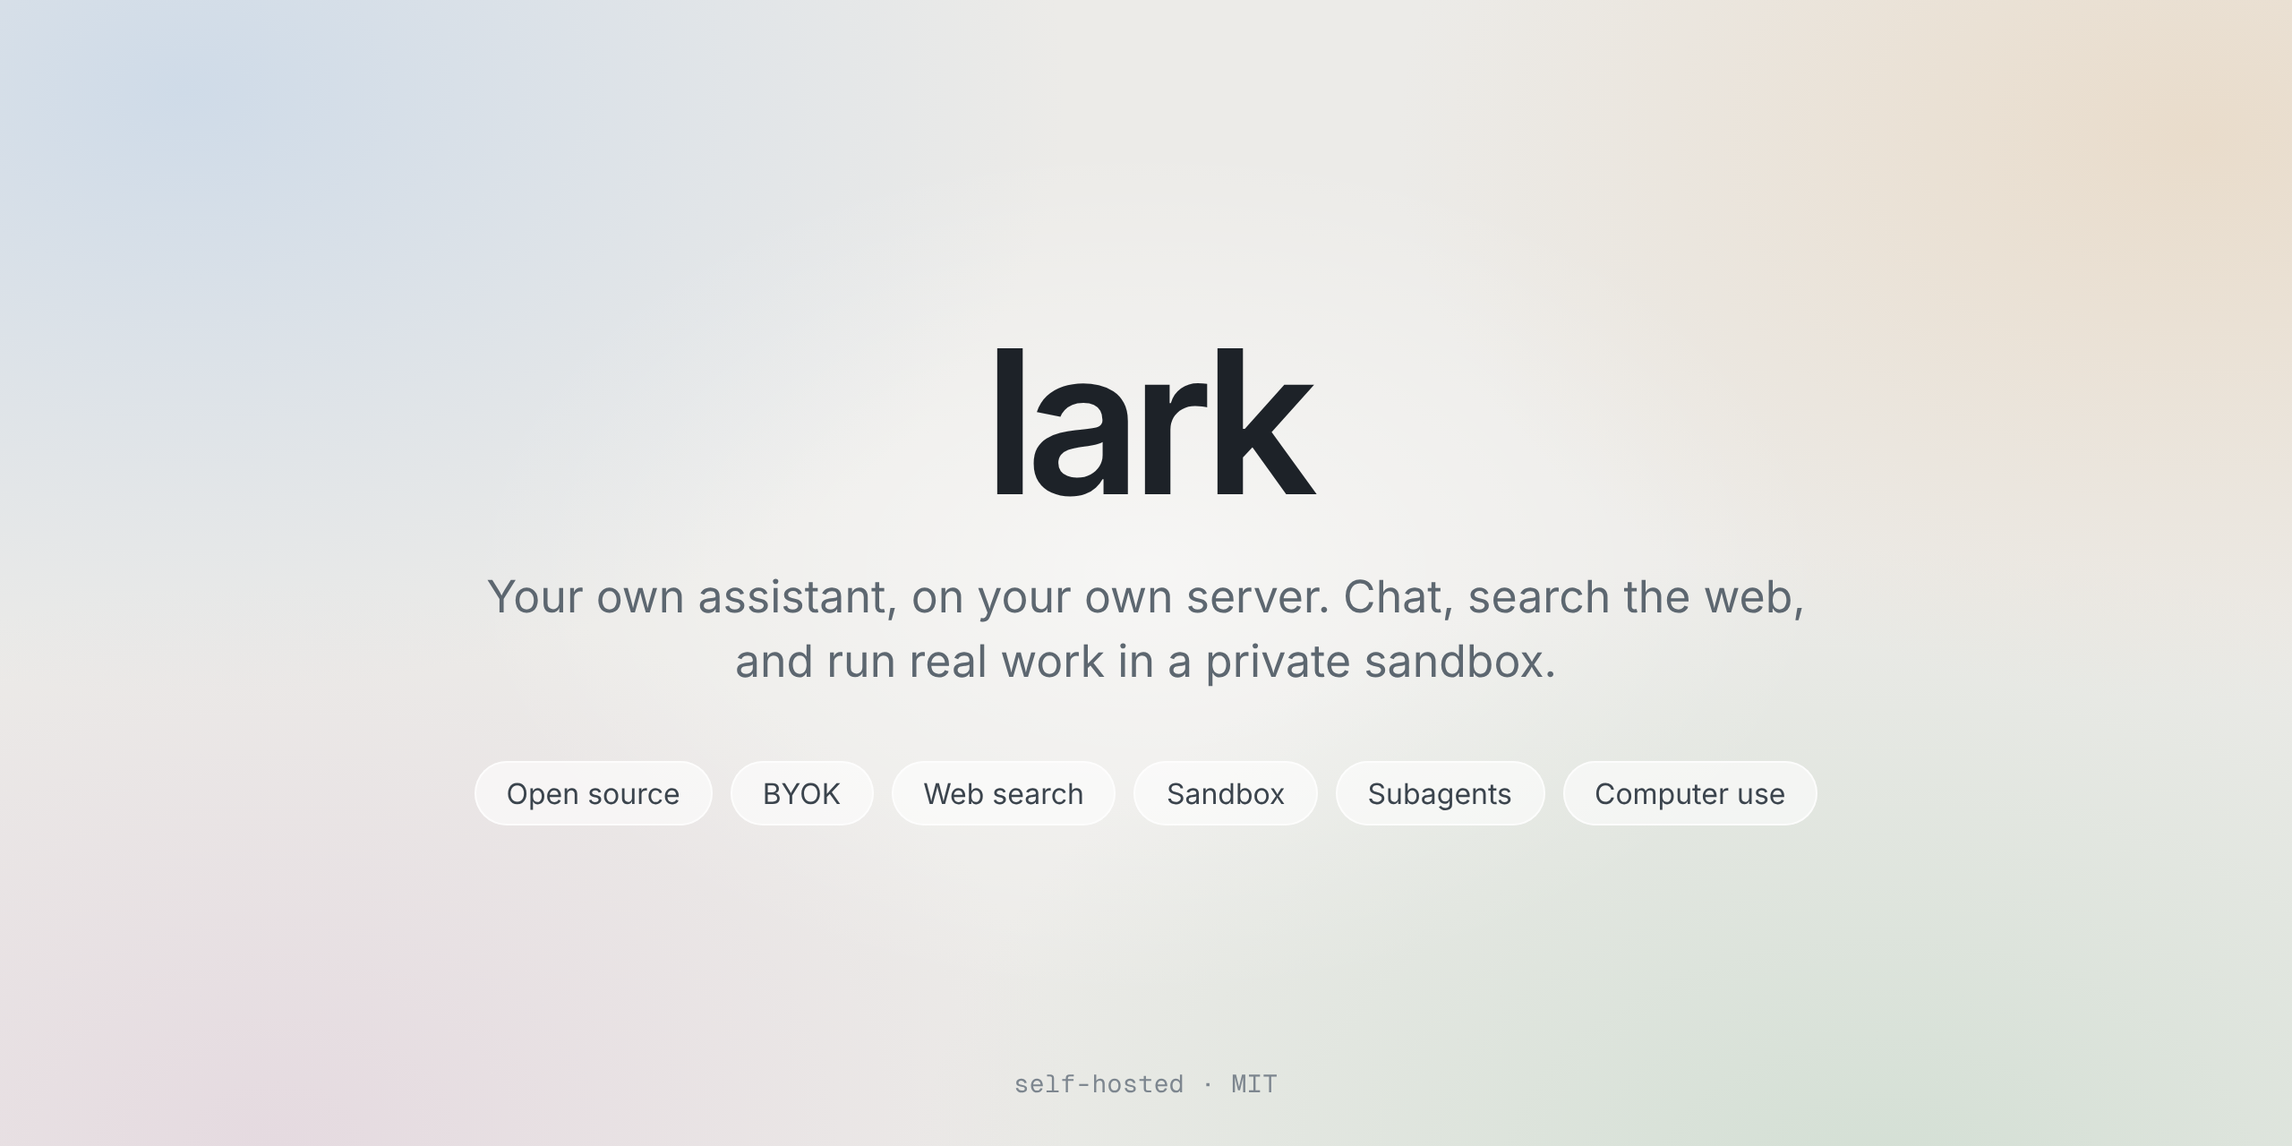
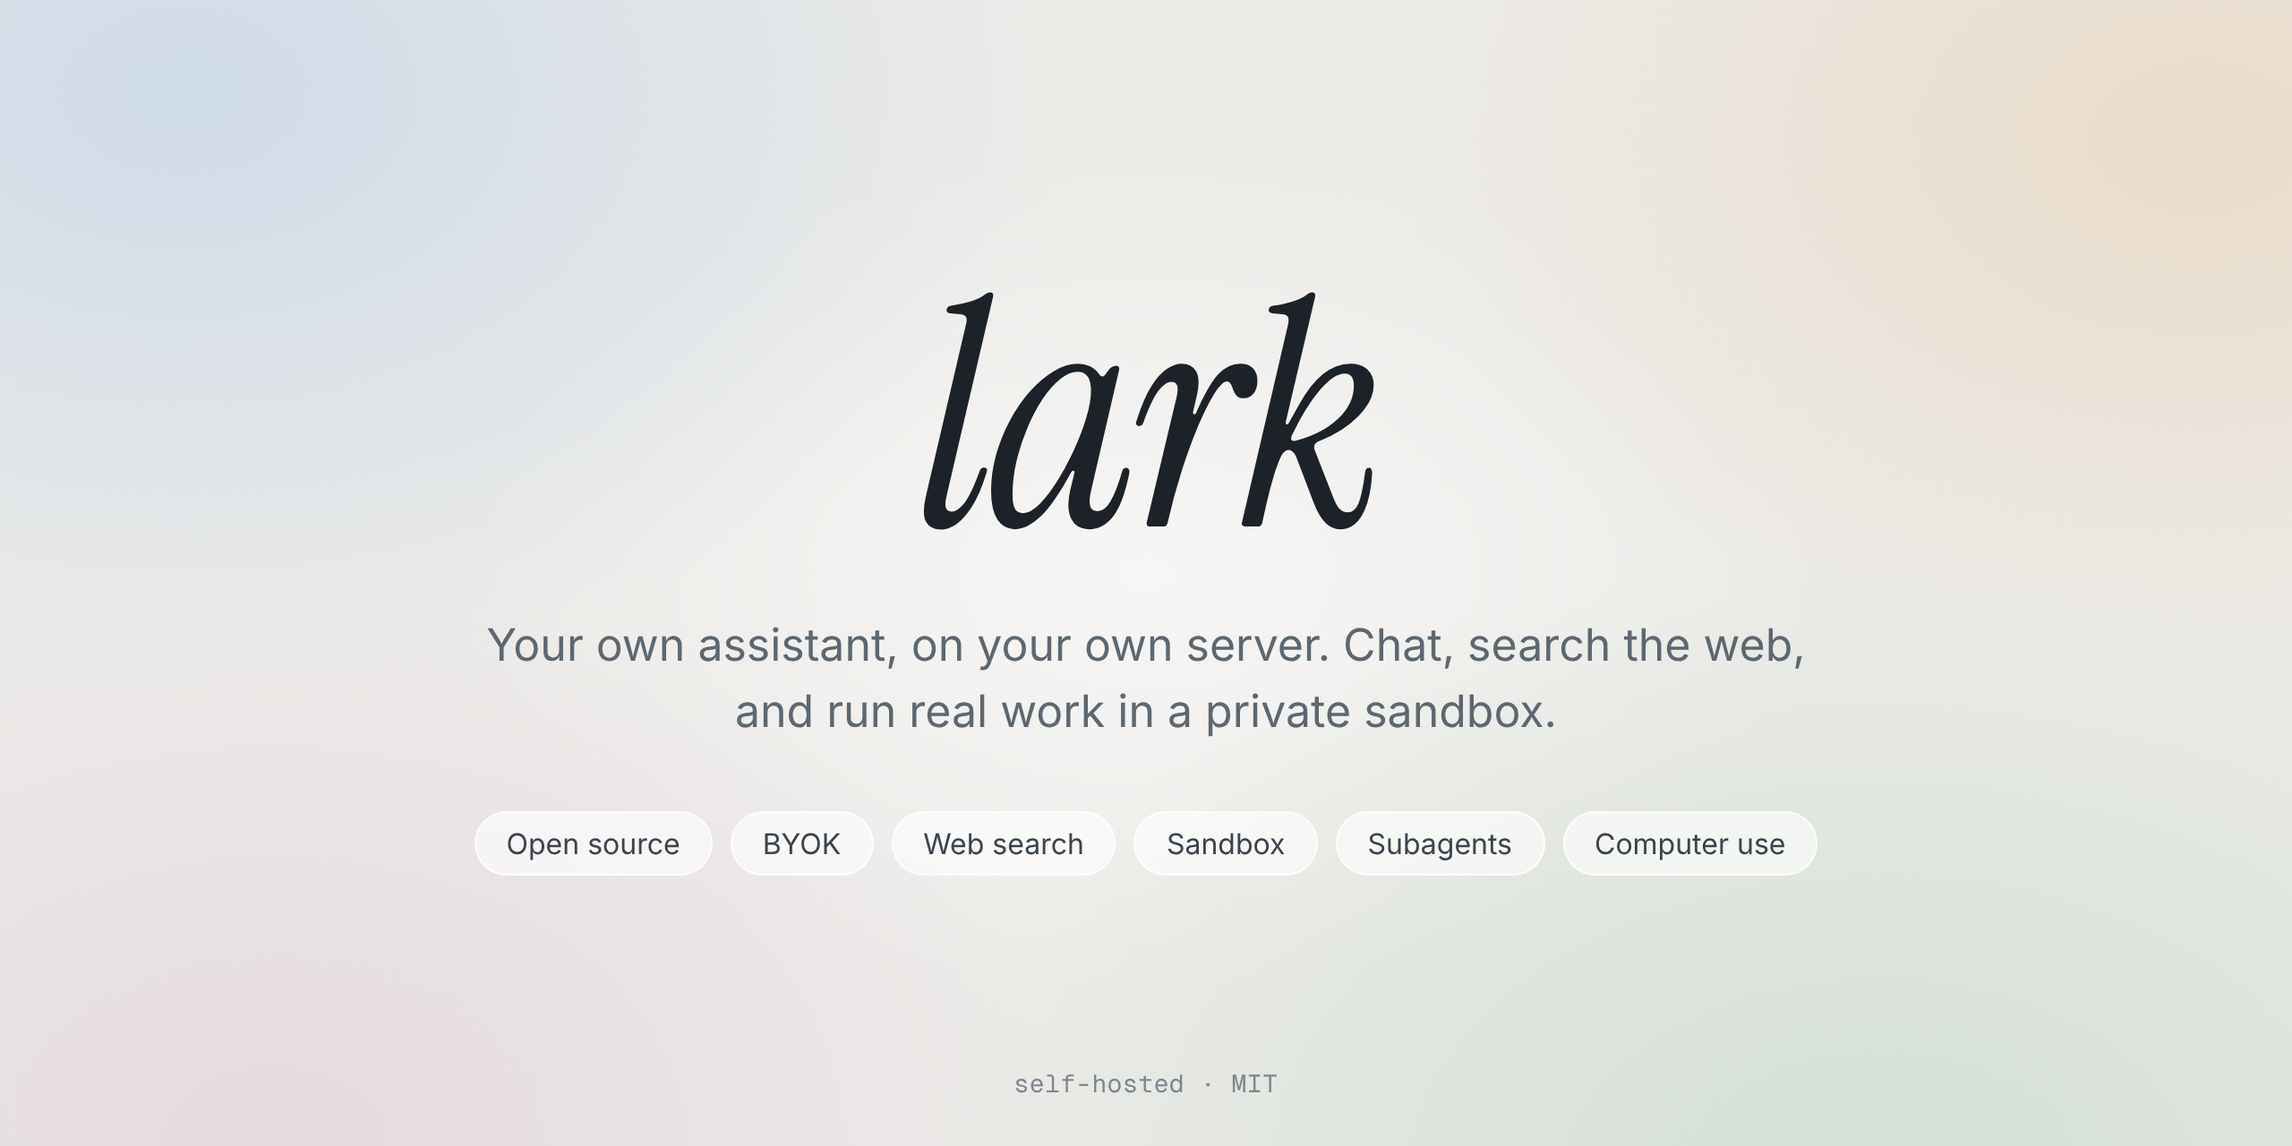
Add a browser tool (headless Chromium in the sandbox) and an italic serif hero
Claude-Session: https://claude.ai/code/session_01Cpw6LZgVNind5oHrps1TW1

diff --git a/web/src/lib/toolIcons.js b/web/src/lib/toolIcons.js
@@ -4,6 +4,7 @@ const ICONS = {
   run_command: '<rect x="3.5" y="5" width="17" height="14" rx="3"/><path d="m8 10 3 2-3 2M13 14.5h3.5"/>',
   read_file: '<path d="M7 3.5h6.5L18 8v12.5H7z"/><path d="M13 3.5V8h5M9.5 12.5h5M9.5 16h5"/>',
   write_file: '<path d="M7 3.5h6.5L18 8v4M7 3.5v17h5"/><path d="M13 3.5V8h5M13.5 20.5l.7-3 5.3-5.3 2.3 2.3-5.3 5.3z"/>',
+  browser: '<circle cx="12" cy="12" r="8.5"/><path d="M3.5 12h17M12 3.5c2.4 2.4 3.6 5.2 3.6 8.500S14.400 18.100 12 20.500M12 3.500C9.600 5.900 8.400 8.700 8.400 12s1.200 6.100 3.600 8.500"/>',
   subagent: '<circle cx="12" cy="6" r="2.5"/><circle cx="6" cy="18" r="2.5"/><circle cx="18" cy="18" r="2.5"/><path d="M12 8.5v3.5M12 12 7 15.8M12 12l5 3.8"/>',
 };
 const FALLBACK = '<path d="M14.5 6.5a4 4 0 0 0 4.9 4.9L10 20.8a2.1 2.1 0 0 1-3-3z"/><path d="M14.5 6.5l3-3"/>';

diff --git a/sandbox/agent.py b/sandbox/agent.py
@@ -1,7 +1,7 @@
 """Exec agent that runs inside the sandbox container. Standard library only.
 
 Endpoints (all need `Authorization: Bearer $SANDBOX_TOKEN`):
-  GET  /health   POST /exec {command, timeout}   GET /file?path=   PUT /file {path, content}   POST /wipe
+  POST /browser {action, ...}   GET  /health   POST /exec {command, timeout}   GET /file?path=   PUT /file {path, content}   POST /wipe
 """
 import hmac
 import json
@@ -10,6 +10,8 @@ import shutil
 import signal
 import subprocess
 import threading
+import time
+from concurrent.futures import ThreadPoolExecutor
 from http.server import BaseHTTPRequestHandler, ThreadingHTTPServer
 from urllib.parse import parse_qs, urlparse
 
@@ -22,6 +24,144 @@ MAX_FILE = 2_000_000
 MAX_BODY = 4_000_000
 MAX_JOBS = 4
 jobs = threading.BoundedSemaphore(MAX_JOBS)
+
+
+CHROME = os.environ.get("SANDBOX_CHROMIUM", "/usr/bin/chromium")
+IDLE_CLOSE = 300  # seconds; the browser is the memory hog, so it shuts down when unused
+
+SNAPSHOT_JS = """() => {
+  document.querySelectorAll('[data-lark]').forEach(e => e.removeAttribute('data-lark'));
+  const sel = 'a[href],button,input,select,textarea,summary,[role=button],[role=link],[role=tab],[role=menuitem],[onclick],[contenteditable=true]';
+  const els = [];
+  for (const e of document.querySelectorAll(sel)) {
+    const r = e.getBoundingClientRect(), cs = getComputedStyle(e);
+    if (r.width < 2 || r.height < 2 || cs.visibility === 'hidden' || cs.display === 'none' || e.disabled) continue;
+    if (e.type === 'hidden') continue;
+    const n = els.length + 1;
+    e.setAttribute('data-lark', n);
+    const tag = e.tagName.toLowerCase();
+    const label = (e.getAttribute('aria-label') || e.innerText || e.placeholder || e.title || e.name || e.value || '')
+      .trim().replace(/\\s+/g, ' ').slice(0, 80);
+    els.push({ n, kind: tag === 'a' ? 'link' : tag === 'input' ? (e.type || 'text') : tag, label,
+      href: tag === 'a' ? e.getAttribute('href') : null,
+      value: ['input', 'textarea', 'select'].includes(tag) && e.type !== 'password' ? String(e.value || '').slice(0, 40) : null });
+    if (els.length >= 80) break;
+  }
+  return { url: location.href, title: document.title, text: (document.body ? document.body.innerText : '').slice(0, 5000), els,
+    y: Math.round(scrollY), height: document.documentElement.scrollHeight, view: innerHeight };
+}"""
+
+
+class Browser:
+    """One headless Chromium page, driven by element numbers. Playwright's sync API is bound to the thread
+    that created it, so every call runs on a single worker thread."""
+
+    def __init__(self):
+        self.pool = ThreadPoolExecutor(max_workers=1)
+        self.pw = self.browser = self.page = None
+        self.last_used = 0.0
+
+    def available(self) -> bool:
+        if not os.path.exists(CHROME):
+            return False
+        try:
+            import playwright  # noqa: F401
+            return True
+        except ImportError:
+            return False
+
+    def _ensure(self):
+        if self.page and self.browser.is_connected():
+            return
+        self._close()
+        from playwright.sync_api import sync_playwright
+        self.pw = sync_playwright().start()
+        self.browser = self.pw.chromium.launch(executable_path=CHROME, headless=True, args=[
+            "--no-sandbox", "--disable-dev-shm-usage", "--disable-gpu", "--mute-audio"])
+        ctx = self.browser.new_context(viewport={"width": 1280, "height": 800}, locale="en-GB")
+        self.page = ctx.new_page()
+        self.page.set_default_timeout(10000)
+
+    def _close(self):
+        for obj, fn in ((self.browser, "close"), (self.pw, "stop")):
+            try:
+                if obj:
+                    getattr(obj, fn)()
+            except Exception:
+                pass
+        self.pw = self.browser = self.page = None
+
+    def close_if_idle(self):
+        if self.page and time.time() - self.last_used > IDLE_CLOSE:
+            self.pool.submit(self._close)
+
+    def _snapshot(self) -> str:
+        page = self.page
+        try:
+            page.wait_for_load_state("domcontentloaded", timeout=5000)
+            page.wait_for_load_state("networkidle", timeout=2500)
+        except Exception:
+            pass
+        d = page.evaluate(SNAPSHOT_JS)
+        lines = [f"URL: {d['url']}", f"Title: {d['title']}",
+                 f"Scroll: {d['y']}/{max(d['height'] - d['view'], 0)}", "", "Page text:", d["text"].strip() or "(no text)", "",
+                 "Interactive elements:"]
+        for e in d["els"]:
+            extra = f" -> {e['href']}" if e["href"] else ""
+            val = f" = {e['value']!r}" if e["value"] else ""
+            lines.append(f"[{e['n']}] {e['kind']} {e['label']!r}{val}{extra}")
+        if not d["els"]:
+            lines.append("(none)")
+        return "\n".join(lines)
+
+    def _act(self, a: dict) -> str:
+        self._ensure()
+        page = self.page
+        action = a.get("action")
+        if action == "goto":
+            url = a.get("url") or ""
+            if "://" not in url:
+                url = "https://" + url
+            if not url.startswith(("http://", "https://")):
+                raise ValueError("Only http and https pages can be opened.")
+            page.goto(url, wait_until="domcontentloaded", timeout=30000)
+        elif action in ("click", "type"):
+            target = page.locator(f'[data-lark="{int(a.get("id"))}"]').first
+            if target.count() == 0:
+                raise ValueError("No element with that number. Use the numbers from the latest snapshot.")
+            if action == "click":
+                target.click(timeout=8000)
+            else:
+                target.fill(str(a.get("text", "")), timeout=8000)
+                if a.get("submit"):
+                    target.press("Enter")
+        elif action == "press":
+            page.keyboard.press(str(a.get("key", "Enter")))
+        elif action == "scroll":
+            dy = 700 if a.get("direction", "down") != "up" else -700
+            page.evaluate("dy => window.scrollBy(0, dy)", dy)
+        elif action == "back":
+            page.go_back(wait_until="domcontentloaded", timeout=15000)
+        elif action != "snapshot":
+            raise ValueError("Unknown browser action.")
+        return self._snapshot()
+
+    def do(self, a: dict) -> dict:
+        self.last_used = time.time()
+
+        def job():
+            try:
+                return {"snapshot": self._act(a)}
+            except Exception as e:  # playwright errors are long; keep the first line
+                msg = str(e).strip().split("\n")[0][:300] or type(e).__name__
+                return {"error": f"Browser error: {msg}"}
+
+        out = self.pool.submit(job).result(timeout=90)
+        self.last_used = time.time()
+        return out
+
+
+browser = Browser()
 
 
 def resolve(path: str) -> str:
@@ -107,7 +247,13 @@ class Handler(BaseHTTPRequestHandler):
         url = urlparse(self.path)
         try:
             if (method, url.path) == ("GET", "/health"):
-                return self.reply(200, {"home": HOME, "disk_free_mb": shutil.disk_usage(HOME if os.path.isdir(HOME) else "/").free // 2**20})
+                return self.reply(200, {"home": HOME, "browser": browser.available(),
+                                        "disk_free_mb": shutil.disk_usage(HOME if os.path.isdir(HOME) else "/").free // 2**20})
+            if (method, url.path) == ("POST", "/browser"):
+                if not browser.available():
+                    return self.reply(501, {"error": "This sandbox has no browser. Rebuild it with sandbox.sh up."})
+                r = browser.do(self.body())
+                return self.reply(400 if "error" in r else 200, r)
             if (method, url.path) == ("POST", "/exec"):
                 b = self.body()
                 command, timeout = b.get("command"), b.get("timeout", 60)
@@ -150,5 +296,12 @@ class Handler(BaseHTTPRequestHandler):
         self.handle_any("PUT")
 
 
+def _janitor():
+    while True:
+        time.sleep(30)
+        browser.close_if_idle()
+
+
 if __name__ == "__main__":
+    threading.Thread(target=_janitor, daemon=True).start()
     ThreadingHTTPServer((BIND, PORT), Handler).serve_forever()

diff --git a/server/tests/test_api.py b/server/tests/test_api.py
@@ -32,7 +32,8 @@ for p in providers.PROVIDERS.values():
 search.SEARCH_PROVIDERS["brave"]["base"] = "http://127.0.0.1:8791/brave"
 sbx = subprocess.Popen([sys.executable, str(Path(__file__).resolve().parents[2] / "sandbox" / "agent.py")],
                        env={**os.environ, "SANDBOX_TOKEN": "tok-1", "SANDBOX_HOME": tempfile.mkdtemp(),
-                            "SANDBOX_PORT": "8796", "SANDBOX_BIND": "127.0.0.1"})
+                            "SANDBOX_PORT": "8796", "SANDBOX_BIND": "127.0.0.1",
+                            "SANDBOX_CHROMIUM": "/opt/pw-browsers/chromium"})
 time.sleep(1)
 
 c = TestClient(app, base_url="http://localhost")
@@ -117,7 +118,7 @@ os.environ.update(LARK_SANDBOX_URL="http://127.0.0.1:8796", LARK_SANDBOX_TOKEN="
 st = c.get("/api/sandbox").json()
 run("sandbox status ok", st["configured"] and st["ok"])
 ev = chat("tools")
-run("sandbox tools offered", "".join(e.get("text", "") for e in ev) == "web_search,run_command,read_file,write_file,subagent")
+run("sandbox tools offered", "".join(e.get("text", "") for e in ev) == "web_search,run_command,read_file,write_file,browser,subagent")
 ev = chat("run echo hi && exit 2")
 run("run_command output and exit code", "hi" in ev[1]["tool_end"]["output"] and "exit code 2" in ev[1]["tool_end"]["output"])
 os.environ["LARK_SANDBOX_TOKEN"] = "wrong"
@@ -134,6 +135,38 @@ try:
 except _tools.ToolError:
     gone = True
 run("wipe clears files", gone)
+# browser tool against a local page
+import http.server  # noqa: E402
+import functools  # noqa: E402
+site = Path(tempfile.mkdtemp())
+(site / "index.html").write_text('<title>Shop</title><a href="/two.html">Next page</a><input placeholder="Find"><button onclick="document.title=\'clicked\'">Go</button>')
+(site / "two.html").write_text("<title>Two</title><p>second page body</p>")
+httpd = http.server.ThreadingHTTPServer(("127.0.0.1", 8898), functools.partial(http.server.SimpleHTTPRequestHandler, directory=str(site)))
+threading.Thread(target=httpd.serve_forever, daemon=True).start()
+snap = asyncio.run(_tools.browser({"action": "goto", "url": "http://127.0.0.1:8898/index.html"}))
+run("browser snapshot lists elements", "Title: Shop" in snap and "[1] link 'Next page'" in snap and "[2] text 'Find'" in snap)
+snap = asyncio.run(_tools.browser({"action": "click", "id": 1}))
+run("browser click follows a link", "Title: Two" in snap and "second page body" in snap)
+asyncio.run(_tools.browser({"action": "back"}))
+snap = asyncio.run(_tools.browser({"action": "type", "id": 2, "text": "hello"}))
+run("browser types into a field", "= 'hello'" in snap)
+try:
+    asyncio.run(_tools.browser({"action": "click", "id": 77}))
+    bad = False
+except _tools.ToolError as e:
+    bad = "No element" in str(e)
+run("browser reports a missing element", bad)
+try:
+    asyncio.run(_tools.browser({"action": "goto", "url": "file:///etc/passwd"}))
+    bad = False
+except _tools.ToolError as e:
+    bad = "http and https" in str(e)
+run("browser refuses file urls", bad)
+ev = chat("tools")
+run("browser tool in the tool list", "browser" in "".join(e.get("text", "") for e in ev).split(","))
+httpd.shutdown()
+
+
 def sse_events(path):
     with c.stream("GET", path) as r:
         return [json.loads(l[5:]) for l in r.iter_lines() if l.startswith("data:")]

diff --git a/server/lark/tools.py b/server/lark/tools.py
@@ -91,6 +91,27 @@ async def write_file(args: dict) -> str:
     return f"Wrote {r.get('bytes', len(content))} bytes to {r.get('path')}."
 
 
+async def browser(args: dict) -> str:
+    action = _str(args, "action")
+    if action not in ("goto", "click", "type", "press", "scroll", "back", "snapshot"):
+        raise ToolError("Unknown action.")
+    try:
+        return clip(await sandbox.browse(args), 9000)
+    except sandbox.SandboxError as e:
+        raise ToolError(str(e))
+
+
+def _browser_detail(a: dict) -> str:
+    action = str(a.get("action", ""))
+    if action == "goto":
+        return str(a.get("url", ""))
+    if action == "click":
+        return f"click #{a.get('id', '')}"
+    if action == "type":
+        return f"type in #{a.get('id', '')}"
+    return action
+
+
 def _obj(props: dict, required: list[str]) -> dict:
     return {"type": "object", "properties": props, "required": required}
 
@@ -118,10 +139,24 @@ WRITE_FILE = Tool(
     write_file, lambda a: str(a.get("path", "")))
 
 
-def available() -> list[Tool]:
+BROWSER = Tool(
+    "browser", "Browser",
+    "Use a real web browser (headless Chromium in the sandbox). Every call returns a snapshot of the page: its text and a "
+    "numbered list of links, buttons and fields. Actions: goto (url), click (id), type (id, text, optional submit), "
+    "press (key, e.g. Enter), scroll (direction up or down), back, snapshot. Element numbers only last until the next "
+    "action, so use the latest snapshot. Use it for pages that need clicking or logging in, or that search can't read.",
+    _obj({"action": {"type": "string", "enum": ["goto", "click", "type", "press", "scroll", "back", "snapshot"]},
+          "url": {"type": "string"}, "id": {"type": "integer"}, "text": {"type": "string"},
+          "submit": {"type": "boolean"}, "key": {"type": "string"}, "direction": {"type": "string"}}, ["action"]),
+    browser, _browser_detail)
+
+
+async def available() -> list[Tool]:
     tools = []
     if search_ready():
         tools.append(WEB_SEARCH)
     if sandbox.configured():
         tools += [RUN_COMMAND, READ_FILE, WRITE_FILE]
+        if await sandbox.has_browser():
+            tools.append(BROWSER)
     return tools

diff --git a/server/lark/agent.py b/server/lark/agent.py
@@ -31,6 +31,9 @@ def system_prompt(available: list[tools.Tool], sub: bool = False) -> str:
     if "run_command" in names:
         lines.append("You have a persistent Linux sandbox. Use it to run code, check things and keep files. "
                      "Its files survive between conversations, but it may be reset, so tell the user what matters.")
+    if "browser" in names:
+        lines.append("You can browse the web with a real browser. Prefer web search for simple questions; use the browser to "
+                     "open pages, fill forms and click through sites. Never enter passwords or payment details unless the user gave them for this task.")
     if "subagent" in names:
         lines.append("You can delegate to subagents for research or long jobs, several at once. Check what they return before relying on it.")
     if available:
@@ -39,7 +42,7 @@ def system_prompt(available: list[tools.Tool], sub: bool = False) -> str:
 
 
 async def _subagent(name: str, key: str, model: str, task: str, steps: list[str]) -> str:
-    inner = tools.available()
+    inner = await tools.available()
     answer = ""
     async for ev in loop(name, key, model, [{"role": "user", "content": task}], inner, SUB_ROUNDS, sub=True):
         if "text" in ev:
@@ -54,7 +57,7 @@ async def _subagent(name: str, key: str, model: str, task: str, steps: list[str]
 
 async def run(name: str, key: str, model: str, history: list[dict]):
     """Yields UI events: text, tool_start, tool_end, error, done."""
-    available = tools.available()
+    available = await tools.available()
     if available:
         available = available + [SUBAGENT]
     async for ev in loop(name, key, model, history, available, MAX_ROUNDS):

diff --git a/server/lark/sandbox.py b/server/lark/sandbox.py
@@ -38,6 +38,28 @@ async def write(path: str, content: str) -> dict:
     return await _call("PUT", "/file", json={"path": path, "content": content})
 
 
+async def browse(args: dict) -> str:
+    keep = {k: args[k] for k in ("action", "url", "id", "text", "submit", "key", "direction") if k in args}
+    return (await _call("POST", "/browser", json=keep, timeout=100))["snapshot"]
+
+
+_features: dict = {"at": 0.0, "browser": False}
+
+
+async def has_browser() -> bool:
+    """Whether the sandbox image includes a browser. Cached briefly so each chat turn doesn't probe it."""
+    import time
+    if not configured():
+        return False
+    if time.time() - _features["at"] > 60:
+        try:
+            _features["browser"] = bool((await health()).get("browser"))
+        except SandboxError:
+            _features["browser"] = False
+        _features["at"] = time.time()
+    return _features["browser"]
+
+
 async def health() -> dict:
     return await _call("GET", "/health")
 

diff --git a/README.md b/README.md
@@ -60,6 +60,8 @@ cd /opt/lark/sandbox
 systemctl restart lark
 ```
 
+**Browser.** If the sandbox image includes Chromium (it does when built with `sandbox.sh up`), Lark can also drive a real browser: open pages, read them, click and type by element number. The browser shuts itself down after 5 idle minutes, since it is the biggest memory user (budget 300 to 500 MB).
+
 **Subagents.** When any tool is available, Lark can hand tasks to subagents (up to 4 at once, 8 steps each) that work with the same tools and report back.
 
 `./sandbox.sh reset` wipes the sandbox back to a clean image (Settings has a Reset everything button for this; `sandbox.sh up` installs a small systemd path unit so the unprivileged Lark service can ask for it without Docker access), `./sandbox.sh nuke` removes it. Settings has a button to clear its files without touching the container. Limits are `SANDBOX_MEM`, `SANDBOX_CPUS` and `SANDBOX_PIDS` (defaults 768m, 1, 256).
